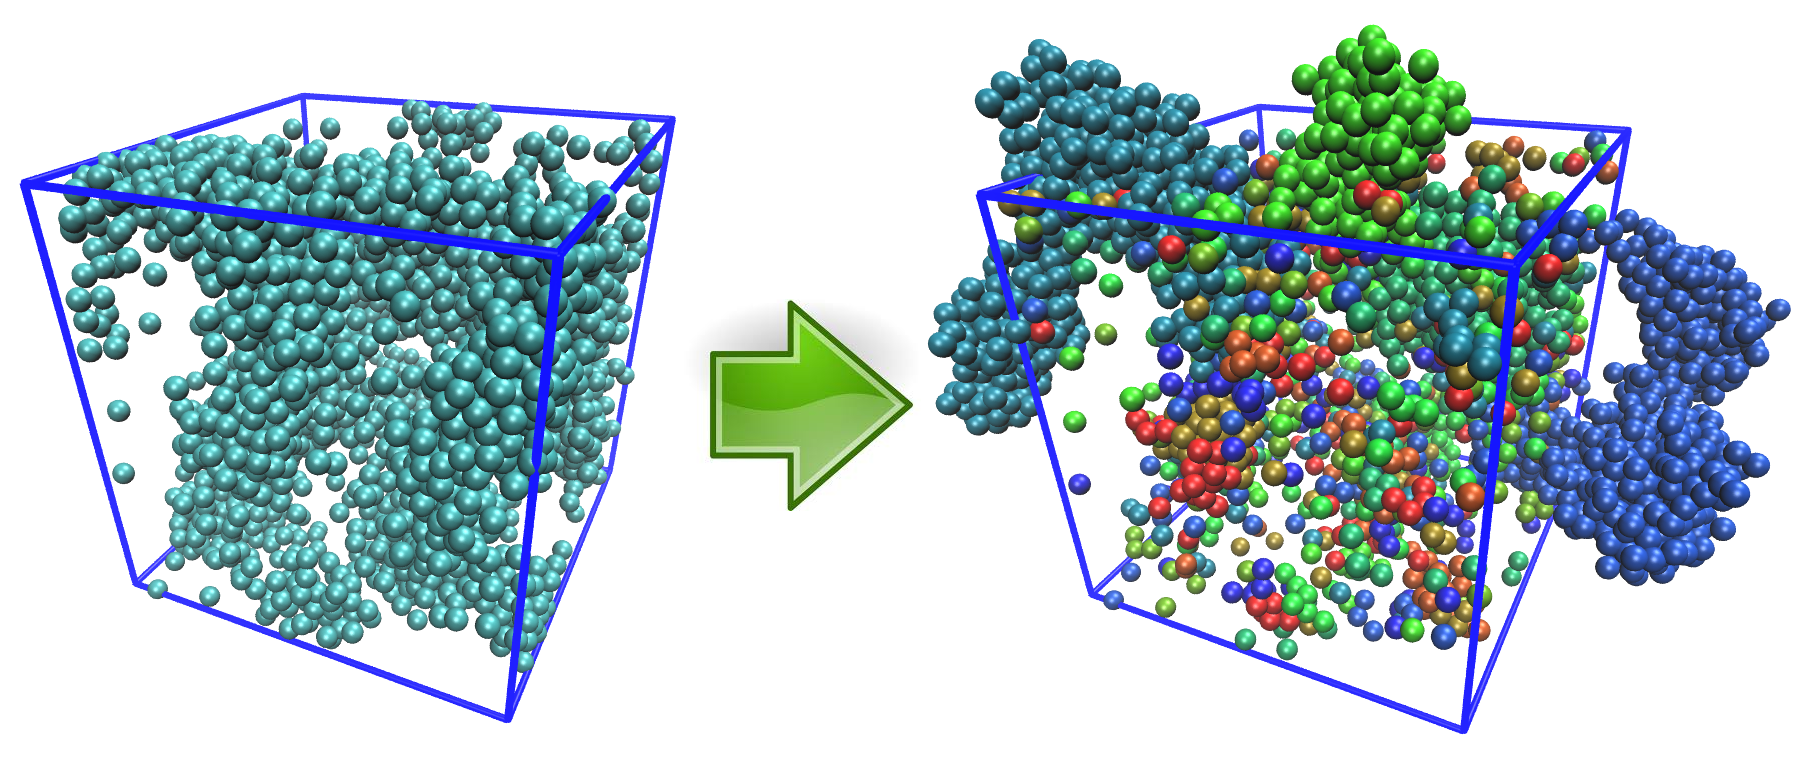
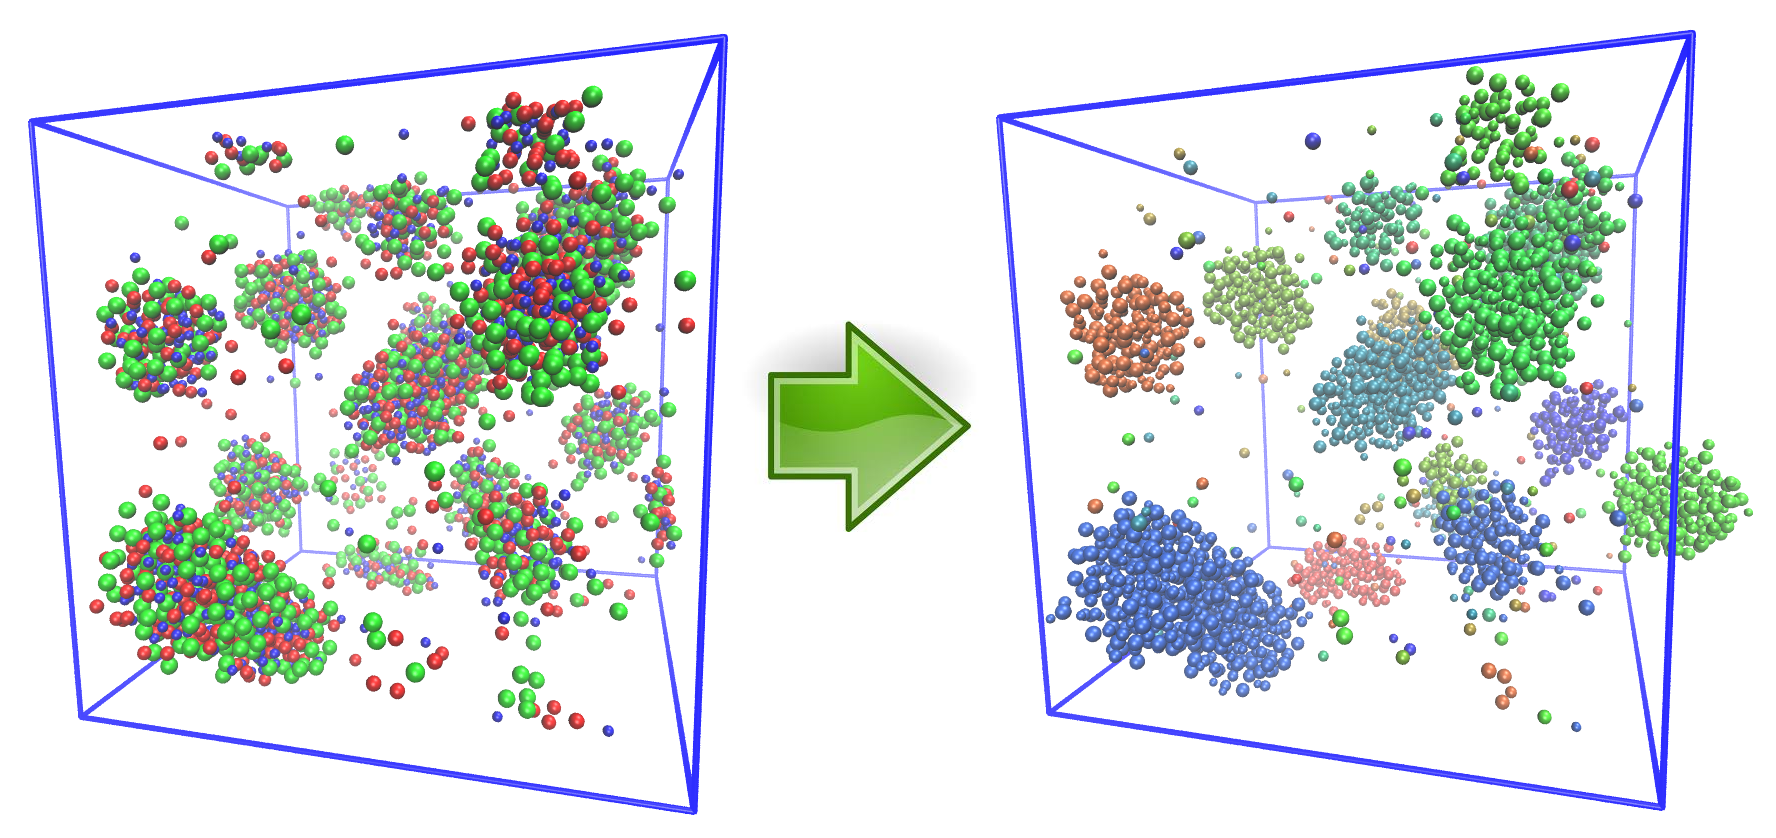
Analysis of number of contacts between molecules.

diff --git a/cluster.py b/cluster.py
@@ -7,6 +7,7 @@ def cluster(traj,contact):
  fc=open(contact,"r")		### read contact parameters from a file
 
  radii={}
+ rns=[]		### molecule types
 
  for line in fc:
   w=line.split()
@@ -17,8 +18,15 @@ def cluster(traj,contact):
    Dc=float(w[1])
   elif(w[0]=="Rc"):
    radii[w[1]]=float(w[2])
+   rns.append(w[1])
 
  fc.close()
+
+ rcm={}		### matrix for number of contacts
+
+ for rn1 in range(0,len(rns)):
+  for rn2 in range(rn1,len(rns)):
+   rcm[rns[rn1],rns[rn2]]=0
 
  c=[]		### clustered proteins
  cxyz=[]	### coordinates of clustered proteins
@@ -109,13 +117,18 @@ def cluster(traj,contact):
 
 ###       print("%3i %3i %3i %s" % (p0,p1,p2,c))
 
-       if(dxyz2<rc2):
+       if(dxyz2<rc2):		### are or are not in contact
         c[cn].append(p2)
         pr2rm.append(p2)
         cxyz[cn].append([x2,y2,z2])
 
         pl=pl-1
         print("proteins left:",pl)
+
+        if (rn1,rn2) in rcm:
+         rcm[rn1,rn2]=rcm[rn1,rn2]+1	### sum contacts
+        else:
+         rcm[rn2,rn1]=rcm[rn2,rn1]+1	### sum contacts
 
      for r in pr2rm:
       pr.remove(r)
@@ -125,9 +138,7 @@ def cluster(traj,contact):
  cs=sorted(c,key=len,reverse=True)		### sorted: largest -> smallest
  csxyz=sorted(cxyz,key=len,reverse=True)
 
- return(cs,csxyz)
-
-
+ return(cs,csxyz,rcm)
 
 def cluster_write(cs,dirout):
 
@@ -139,6 +150,31 @@ def cluster_write(cs,dirout):
    print("%i" % i,end=" ",file=f)
    if(i==(c[len(c)-1])):
     print("",file=f)		### new line
+
+ f.close()
+
+
+def contacts_write(contacts,dirout,contact):
+
+ fc=open(contact,"r")		### read contact parameters from a file
+
+ rns=[]		### molecule types
+
+ for line in fc:
+  w=line.split()
+
+  if(w[0]=="Rc"):
+   rns.append(w[1])
+
+ fc.close()
+
+ allcon=sum(contacts.values())
+
+ f=open(str(dirout)+"/contacts.dat","w")
+
+ for rn1 in range(0,len(rns)):
+  for rn2 in range(rn1,len(rns)):
+   print("%3s %3s %12i %6.3f" % (rns[rn1],rns[rn2],contacts[rns[rn1],rns[rn2]],contacts[rns[rn1],rns[rn2]]/allcon),file=f)
 
  f.close()
 

diff --git a/main.py b/main.py
@@ -25,9 +25,9 @@ args=parser.parse_args()
 if(args.fn!=None):			### file with frame numbers
  d=numpy.loadtxt(str(args.fn))
 elif(args.f!=None):			### frame number
- d=args.f
+ d=[args.f]
 else:					### default frame number
- d=1
+ d=[1]
 
 ### bin size for RDF
 if(args.bs!=None):
@@ -45,8 +45,9 @@ for n in d:
  trajectory=traj.traj(args.s,args.t,frame)
 
 ### gives back clustered proteins numbers and their wrapped coordinates
- clust,clust_xyz=cluster.cluster(trajectory,args.c)
+ clust,clust_xyz,contacts=cluster.cluster(trajectory,args.c)
  cluster.cluster_write(clust,dirout)
+ cluster.contacts_write(contacts,dirout,args.c)
 
 ### determines cluster size distribution function
  clustdist=csd.csd(clust)

diff --git a/README.md b/README.md
@@ -58,8 +58,10 @@ The valuse are from 0.00 to 1.00, such that they can be used to color the cluste
 
 If not specified by the *-bs* option the bin size is equal to 0.5 nm.
 </li>
+
+<li>Number and percentage of contacts betweed different types of molecules.</li>
 </ol>
 
 #### What else does it need?
 
-MDTraj [link](http://mdtraj.org)
+MDTraj ([link](http://mdtraj.org))
